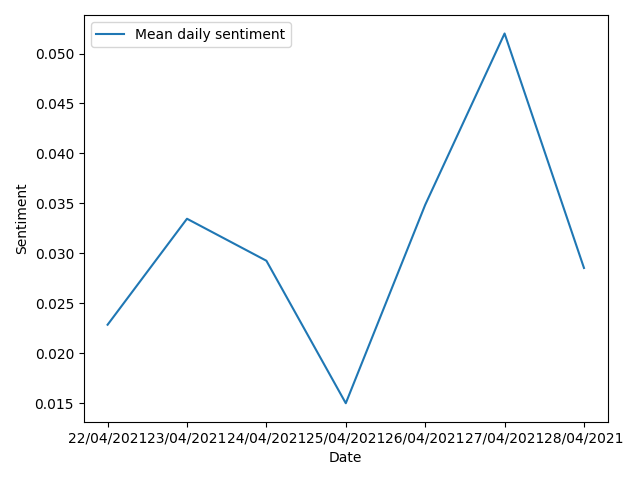
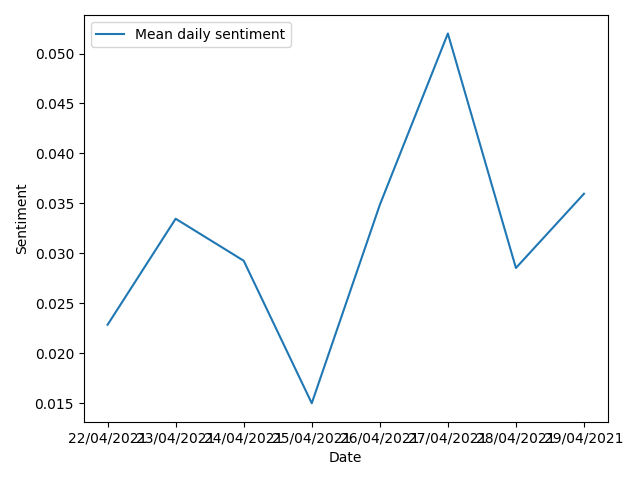
Automatic update (gitControl.py)

diff --git a/README.md b/README.md
@@ -3,7 +3,7 @@
 World news sentiment data, updated at 07:00 daily.
 
 **Started:** `22/04/2021`<br>
-**Updated:** `28/04/2021, 07:00:38`<br>
+**Updated:** `29/04/2021, 07:00:44`<br>
 **Sources:** `BBC News, Sky, Reuters, r/worldnews, r/news`
 
 <img src="https://user-images.githubusercontent.com/25552804/115932698-55adef00-a485-11eb-82bb-2265c0821ca0.png" width="20%" height="20%">

diff --git a/docs/index.md b/docs/index.md
@@ -3,7 +3,7 @@
 World news sentiment data, updated at 07:00 daily.
 
 **Started:** `22/04/2021`<br>
-**Updated:** `28/04/2021, 07:00:38`<br>
+**Updated:** `29/04/2021, 07:00:44`<br>
 **Sources:** `BBC News, Sky, Reuters, r/worldnews, r/news`
 
 <img src="https://user-images.githubusercontent.com/25552804/115932698-55adef00-a485-11eb-82bb-2265c0821ca0.png" width="20%" height="20%">
